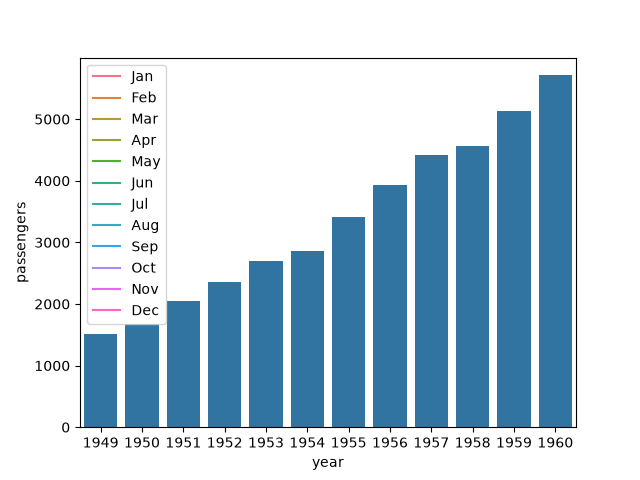
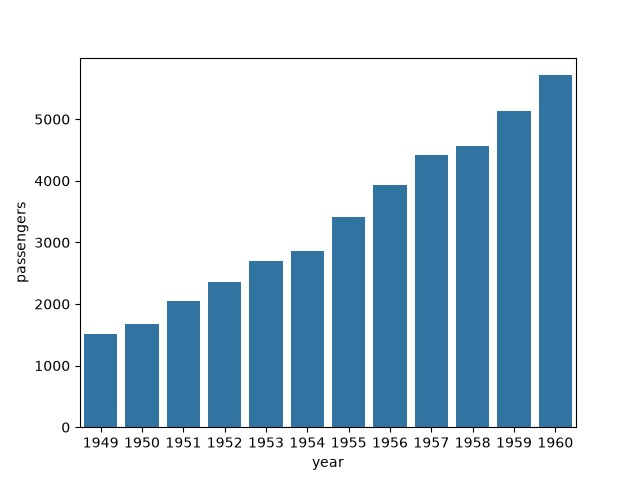
Remove line plot generation and associated image file from flights.py

Changed region(s): [[0.125, 0.125, 0.25, 0.4375], [0.125, 0.5938, 0.25, 0.6562], [0.125, 0.4688, 0.25, 0.5625]]

diff --git a/flights.py b/flights.py
@@ -2,8 +2,6 @@ import seaborn as sns
 import matplotlib.pyplot as plt
 
 flt = sns.load_dataset("flights")
-sns.lineplot(data=flt, x="year", y="passengers", hue="month")
-plt.savefig("flights_lineplot.png")
 
 flt_year = flt.groupby("year", as_index=False)["passengers"].sum()
 print(flt_year)
